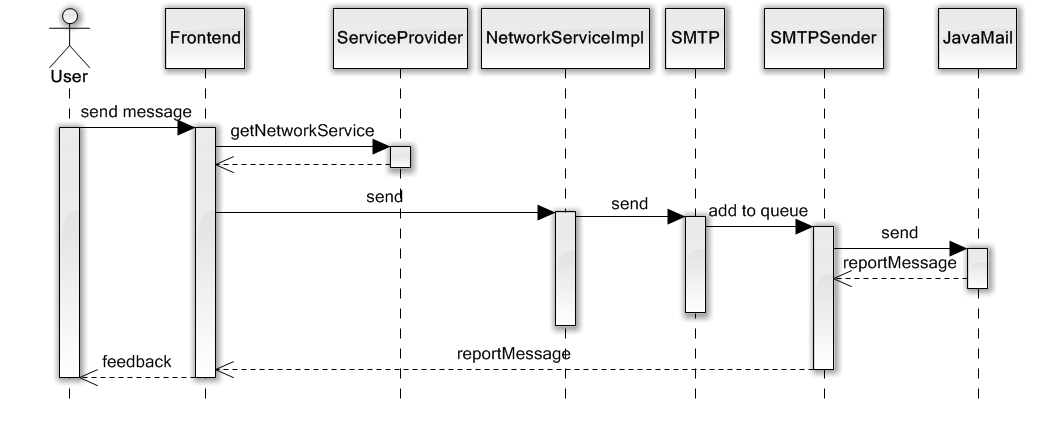
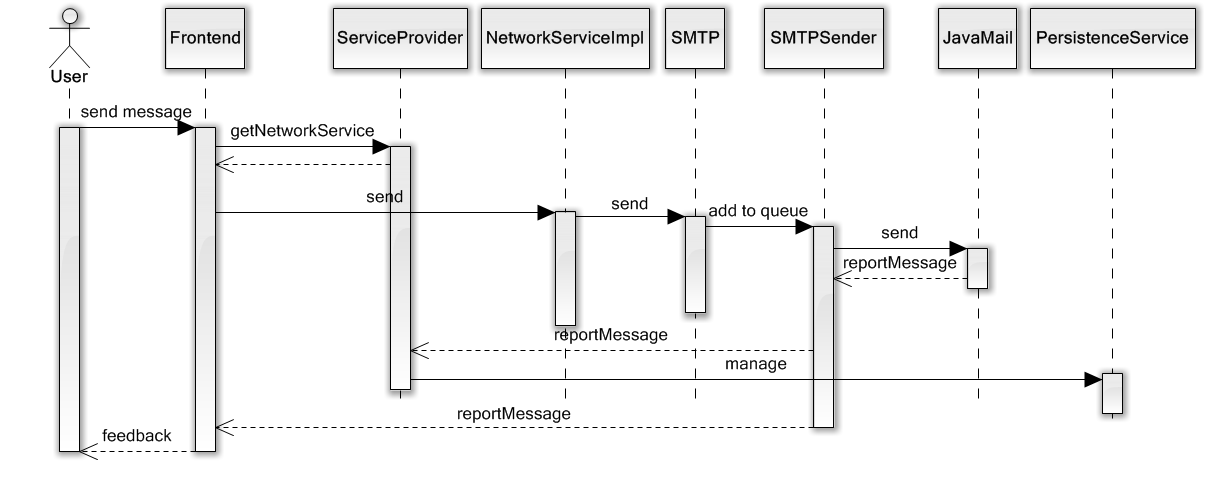
Added sequence diagrams and small description to two of them

Changed region(s): [[0.0307, 0.0, 0.9511, 0.9652], [0.1227, 0.0, 1.0, 0.181]]

diff --git a/Project report/architecture.tex b/Project report/architecture.tex
@@ -27,7 +27,7 @@ Figure \ref{fig:developmentview} at page \pageref{fig:developmentview} shows the
 	\caption{The logical package view of the architecture}
 	\label{fig:logicalpackview}
 \end{figure}
-Figure \ref{fig:logicalpackview} shown at page \pageref{fig:logicalpackview}, shows a package overview over the project backend. Though very generic, it shows the basic structure of the architecture, and the communication paths between packages. On thing to note, is that in order to add a new service to the architecture, one would need to implement three different objects, a factory for creating the service, an interface describing the service, and the service implementation itself. In the case of XOXOmail, we planned out four different services, the \textit{NetworkService}~(Fig.~\ref{fig:logicalnetworkpackview}~p.~\pageref{fig:logicalnetworkpackview}), \textit{PersistenceService}~(Fig.~\ref{fig:logicalpersistencepackview}~p.~\pageref{fig:logicalpersistencepackview}), \textit{HALService} and \textit{SecurityService}. The two latter was though never used, and their diagrams are therefore omitted here, alongside the diagram for our \textit{Utiliteis} class. The structure of our models can be seen in figure~\ref{fig:logicalmodelpackview} at page \pageref{fig:logicalmodelpackview}
+Figure \ref{fig:logicalpackview} shown at page \pageref{fig:logicalpackview}, shows a package overview over the project backend. Though very generic, it shows the basic structure of the architecture, and the communication paths between packages. On thing to note, is that in order to add a new service to the architecture, one would need to implement three different objects, a factory for creating the service, an interface describing the service, and the service implementation itself. In the case of XOXOmail, we planned out four different services, the \textsc{NetworkService}~(Fig.~\ref{fig:logicalnetworkpackview}~p.~\pageref{fig:logicalnetworkpackview}), \textsc{PersistenceService}~(Fig.~\ref{fig:logicalpersistencepackview}~p.~\pageref{fig:logicalpersistencepackview}), \textsc{HALService} and \textsc{SecurityService}. The two latter was though never used, and their diagrams are therefore omitted here, alongside the diagram for our \textsc{Utiliteis} class. The structure of our models can be seen in figure~\ref{fig:logicalmodelpackview} at page \pageref{fig:logicalmodelpackview}
 
 \begin{figure}[H]
 	\includegraphics[width=\textwidth]{NetworkService.png}
@@ -47,8 +47,8 @@ Figure \ref{fig:logicalpackview} shown at page \pageref{fig:logicalpackview}, sh
 
 The intended purpose of each of the different services is somewhat given by their respective names, but in order to avoid any ambiguity there will be a short recap of their purpose.
 \begin{description}
-	\item[NetworkService] The \textit{NetworkService}'s reponsebility is to provide the core functionality of sending and receiving mail. 
-	\item[PersistenceService] The \textit{PersistenceService}'s responsebility is to keep track of objects being changes, and reflect these changes in a persistent way in case of system failure, or the application is shut down. 
+	\item[NetworkService] The \textsc{NetworkService}'s reponsebility is to provide the core functionality of sending and receiving mail. 
+	\item[PersistenceService] The \textsc{PersistenceService}'s responsebility is to keep track of objects being changes, and reflect these changes in a persistent way in case of system failure, or the application is shut down. 
 \end{description}
 
 \subsubsection{Frontend}
@@ -60,7 +60,7 @@ The intended purpose of each of the different services is somewhat given by thei
 	
 \subsection{Process view}
 The process view is concerned with how different tasks bind together to form one executable unit. More specifically, the communication between threads/processes and on which thread/process is a task executed. We will differentiate between major and minor tasks, where major tasks are architectural elements open through a public interface, and minor tasks being tasks introduced in order to implement some functionality in one class or module.
-In figure \ref{fig:processview} at page \pageref{fig:processview}, you can differentiate between minor and major tasks by looking at the \textit{SMTP} branch of \textit{NetworkService}, here \textit{SMTPSender} is a minor task, while both \textit{SMTP} and \textit{NetworkService} is considered major tasks. 
+In figure \ref{fig:processview} at page \pageref{fig:processview}, you can differentiate between minor and major tasks by looking at the \textsc{SMTP} branch of \textsc{NetworkService}, here \textsc{SMTPSender} is a minor task, while both \textsc{SMTP} and \textsc{NetworkService} is considered major tasks. 
 
 \begin{figure}[H]
 	\includegraphics[width=\textwidth]{processview.png}
@@ -68,7 +68,7 @@ In figure \ref{fig:processview} at page \pageref{fig:processview}, you can diffe
 	\label{fig:processview}
 \end{figure}
 
-One thing to note about the communications paths is that all communication between the \textit{frontent component} and \textit{service component} is between two wrapper classes, \textit{WrapperActivity} at the frontend, and \textit{ServiceProvider} at the backend. 
+One thing to note about the communications paths is that all communication between the \textsc{frontent component} and \textsc{service component} is between two wrapper classes, \textsc{WrapperActivity} at the frontend, and \textsc{ServiceProvider} at the backend. 
 
 \subsection{Security view}
 The security view is concerned with how the system as a whole is secured. This involves intercommunication, storage and communication with external sources. The view is not however concerned about implementation, just the layers of security.
@@ -156,7 +156,7 @@ By conforming to using external resources on can easily build applications that 
 			\item[Authenticate Users] XOXOmail will keep a users credential stored after the first time login. The first time login authentication procedure consists of trying to login to mail gateway.
 			\item[Authorize Users] After authenication, a folder is allocated for the user. All data within this folder will be encrypted using a derivative of the users password. 
 			\item[Maintain data confidentiality] The local data storage will be secured by encryption, as described in the previous point. Network data will also be encrypted using \gls{ssl}. 
-			\item[Maintain Integrity] Data integrity is a concern at three points, the updating of a model, storing of data and network communication. Data integrity when updating a model will be assured by encapsulation, network communication will be secured by \gls{ssl} running on top of \gls{tcp}, the mail content will in addition be signed using \gls{emims}. For the storing of data the \gls{acid} properties of the \textit{PersistenceService} should ensure integrity. 
+			\item[Maintain Integrity] Data integrity is a concern at three points, the updating of a model, storing of data and network communication. Data integrity when updating a model will be assured by encapsulation, network communication will be secured by \gls{ssl} running on top of \gls{tcp}, the mail content will in addition be signed using \gls{emims}. For the storing of data the \gls{acid} properties of the \textsc{PersistenceService} should ensure integrity. 
 			\item[Limit Exposure] The exposure of services within XOXOmail is limited by the authenication of user, since no services are available before the user is successfully authenicated.
 			\item[Limit access] Given two different views of access, XOXOmail tries to prevent both. In the case of physical access to the device, an authentication process must be completed. Attempting to gain access through network communication will be prevented by a trust manager, only accepting connections to gateways with a known certificate. 
 		\end{description}
@@ -181,7 +181,7 @@ By conforming to using external resources on can easily build applications that 
 		Even though modifiability was not one of the choosen quality attributes, it has had a significant impact on the overall architecture and is therefore included here. From 'Software Architecture in Practice'\cite[p. 111]{bib:archi} it is listed three main areas for modifiability tactics, which each has several tactics. The ones XOXOmail uses are as listed in table~\ref{tab:modtac} on page~\pageref{tab:modtac}.
 		\begin{table}[H]
 			\begin{description}
-				\item[Localize change] In an attempt to maximize the systems functional cohesion several tactics where utilized. The network service in XOXOmail utilizes a tactic known as \textit{Generalize Module} as it make use of dependency injection to function instead of multiple fairly similar functions. This allows for a more general use of the module by changing the input parameters to it, instead of the module itself. Another tactic used is \textit{abstract common services}, which can be seen on both the frontend and backend part of the application. Frontend, all activities inherit from a wrapper class which manages the connection to the backendservice. Backend, all services inherit from an abstract service which manages all commonalities between each service. 
+				\item[Localize change] In an attempt to maximize the systems functional cohesion several tactics where utilized. The network service in XOXOmail utilizes a tactic known as \textsc{Generalize Module} as it make use of dependency injection to function instead of multiple fairly similar functions. This allows for a more general use of the module by changing the input parameters to it, instead of the module itself. Another tactic used is \textsc{abstract common services}, which can be seen on both the frontend and backend part of the application. Frontend, all activities inherit from a wrapper class which manages the connection to the backendservice. Backend, all services inherit from an abstract service which manages all commonalities between each service. 
 				\item[Prevention of ripple effect] The prevention if done mainly by the use of interfaces, supplemented by a factory pattern for easy creating of services. 
 				\item[Defer binding time] The concept of configuration files is utilized by XOXOmail when the application is first starting up. The user also has the possibility to change the configuration files through the user interface, and make the application in the most suitable way. 
 			\end{description}
@@ -195,4 +195,27 @@ By conforming to using external resources on can easily build applications that 
 \section{Architectural patterns}
 	XOXOmail is built up of several architectural pattern working together to create the best possible experience for every stakeholder involved in this project. The most prominent being our own derivation of the Model-View-Controller pattern, where the whole frontend has taken the part of being a view-controller, models are still models, and the backend service a pure controller. A great amount of modifiability is achived with this pattern, and by using interfaces to describe modules and their respective callbacks. 
 	
-\section{}
+\section{The sequence of operations}
+	The sequence diagrams below show the general sequence of executed methods when the application is running normally. It is however somewhat simplified in order to best convey the general notion of the sequence, while the implementation make use of multiple concurrent threads, and uses callbacks instead of return values to methods. 
+	\subection{The login sequence}
+	The key element in the login sequence is the query to the \textsc{UserManager} object, which allows for offline login to the application. This is however only possible if the user has been logged in on that particular device before. In the case that a user has never logged in before, the gateway server is used to verify the user credentials, they are then stored if they are correct. 
+	\begin{figure}
+		\includegraphics[width=\textwidth]{LoginSequence}
+		\caption{The login sequence}
+		\label{fig:lifecycle}
+	\end{figure}
+	
+\subection{The send message sequence}
+	In this sequence diagram you see the general flow when sending a message. One thing to note is the \textsc{reportMessage}s in the diagram, these are implemented as callback functions in XOXOmail. The reasoning for this is that every time consuming task run in a separate thread, hence a introducing the need for asynchronous callbacks. These callbacks also follows the \textsc{Observable pattern}\cite{bib:observer}, which allows for multiple observers. 
+	\begin{figure}
+		\includegraphics[width=\textwidth]{SendSequence}
+		\caption{The send message sequence}
+		\label{fig:lifecycle}
+	\end{figure}
+\subection{The retrieve message sequence}
+	
+	\begin{figure}
+		\includegraphics[width=\textwidth]{IMAPPushSequence}
+		\caption{The imap push sequence}
+		\label{fig:lifecycle}
+	\end{figure}
